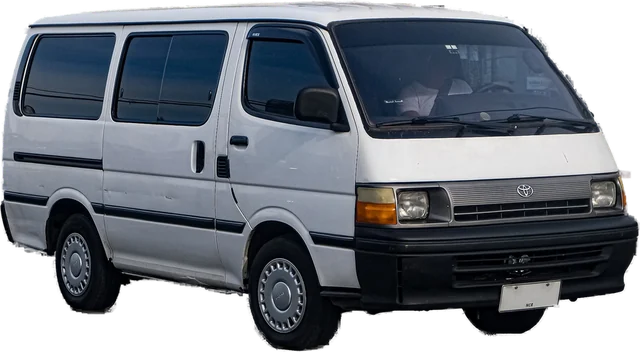
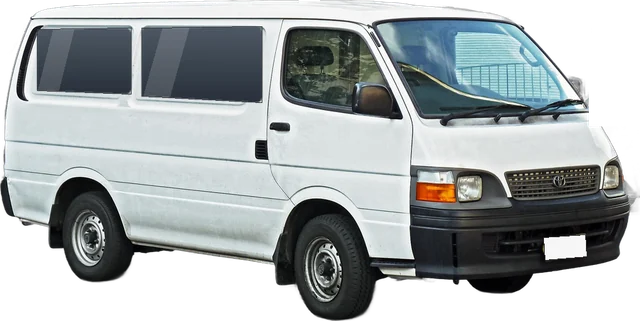
Fleet board: HiAce photo now the 2002-04 facelift H100 like ours
Public-domain photo, background removed, side windows added, plate blanked.

Claude-Session: https://claude.ai/code/session_013KC2b29RFZpWjsTPadRB13

diff --git a/src/components/vehicle-art.tsx b/src/components/vehicle-art.tsx
@@ -67,12 +67,12 @@ export function LorryArt({ status = "ACTIVE", className = "" }: { status?: strin
 
 /** Real cut-out photos of the fleet's models (Wikimedia Commons, credited in PHOTO_CREDITS). */
 export const VEHICLE_PHOTOS = {
-  minibus: { src: "/fleet-photos/toyota-hiace-h100.webp", alt: "Toyota HiAce minibus", w: 640, h: 352 },
+  minibus: { src: "/fleet-photos/toyota-hiace-h100.webp", alt: "Toyota HiAce minibus", w: 640, h: 321 },
   lorry: { src: "/fleet-photos/fuso-canter.webp", alt: "Mitsubishi Fuso Canter lorry", w: 640, h: 416 },
 } as const;
 
 export const PHOTO_CREDITS = [
-  { what: "Toyota HiAce", by: "Ethan Llamas", licence: "CC BY-SA 4.0", url: "https://commons.wikimedia.org/wiki/File:Toyota_Hiace_LH114L_FL1_2.4_Commuter_White_01.jpg" },
+  { what: "Toyota HiAce", by: "OSX", licence: "public domain", url: "https://commons.wikimedia.org/wiki/File:1998-2004_Toyota_HiAce_(RZH103R)_van_(2011-11-04).jpg" },
   { what: "Fuso Canter", by: "MarcelX42", licence: "CC BY-SA 4.0", url: "https://commons.wikimedia.org/wiki/File:Fuso_Canter_3C15D_IAA_2022_(DSC03808).jpg" },
 ];
 
